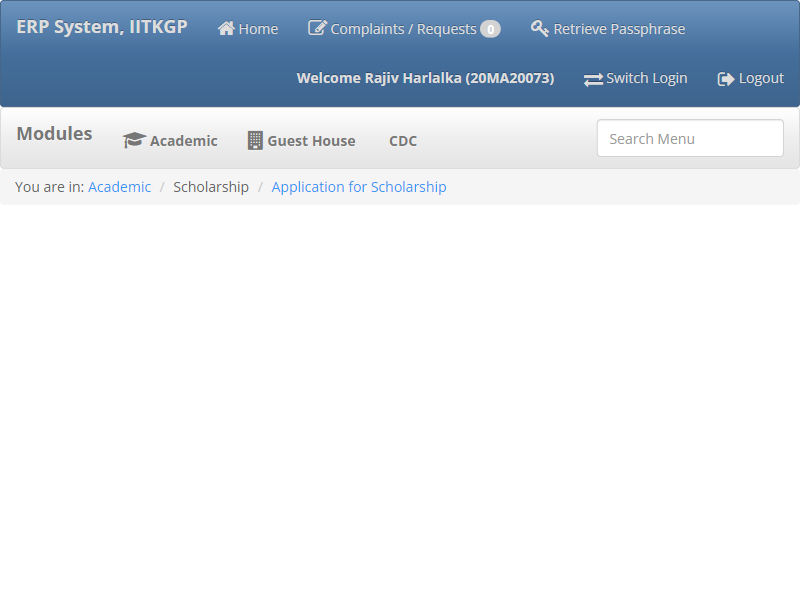
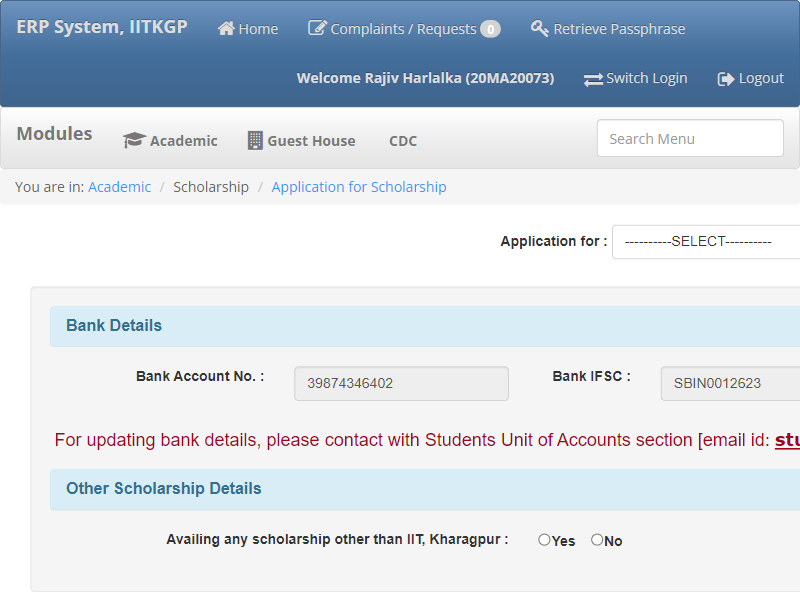
waitign for page to laod

diff --git a/index.js b/index.js
@@ -23,7 +23,7 @@ var mailOptions = {
 //Puppeteer Configuration
 
 (async () => {
-  const browser = await puppeteer.launch({ headless: false, slowMo: 100 });
+  const browser = await puppeteer.launch({ headless: false, slowMo: 75 });
   const page = await browser.newPage();
 
   await page.goto("https://erp.iitkgp.ac.in/", { waitUntil: "networkidle2" });
@@ -62,7 +62,7 @@ var mailOptions = {
   await page.$eval("#collapse16555 > div > div > a.text-default", (el) =>
     el.click()
   );
-
+    await page.waitForNetworkIdle()
 
   await page.screenshot({ path: "example.png" });
 
